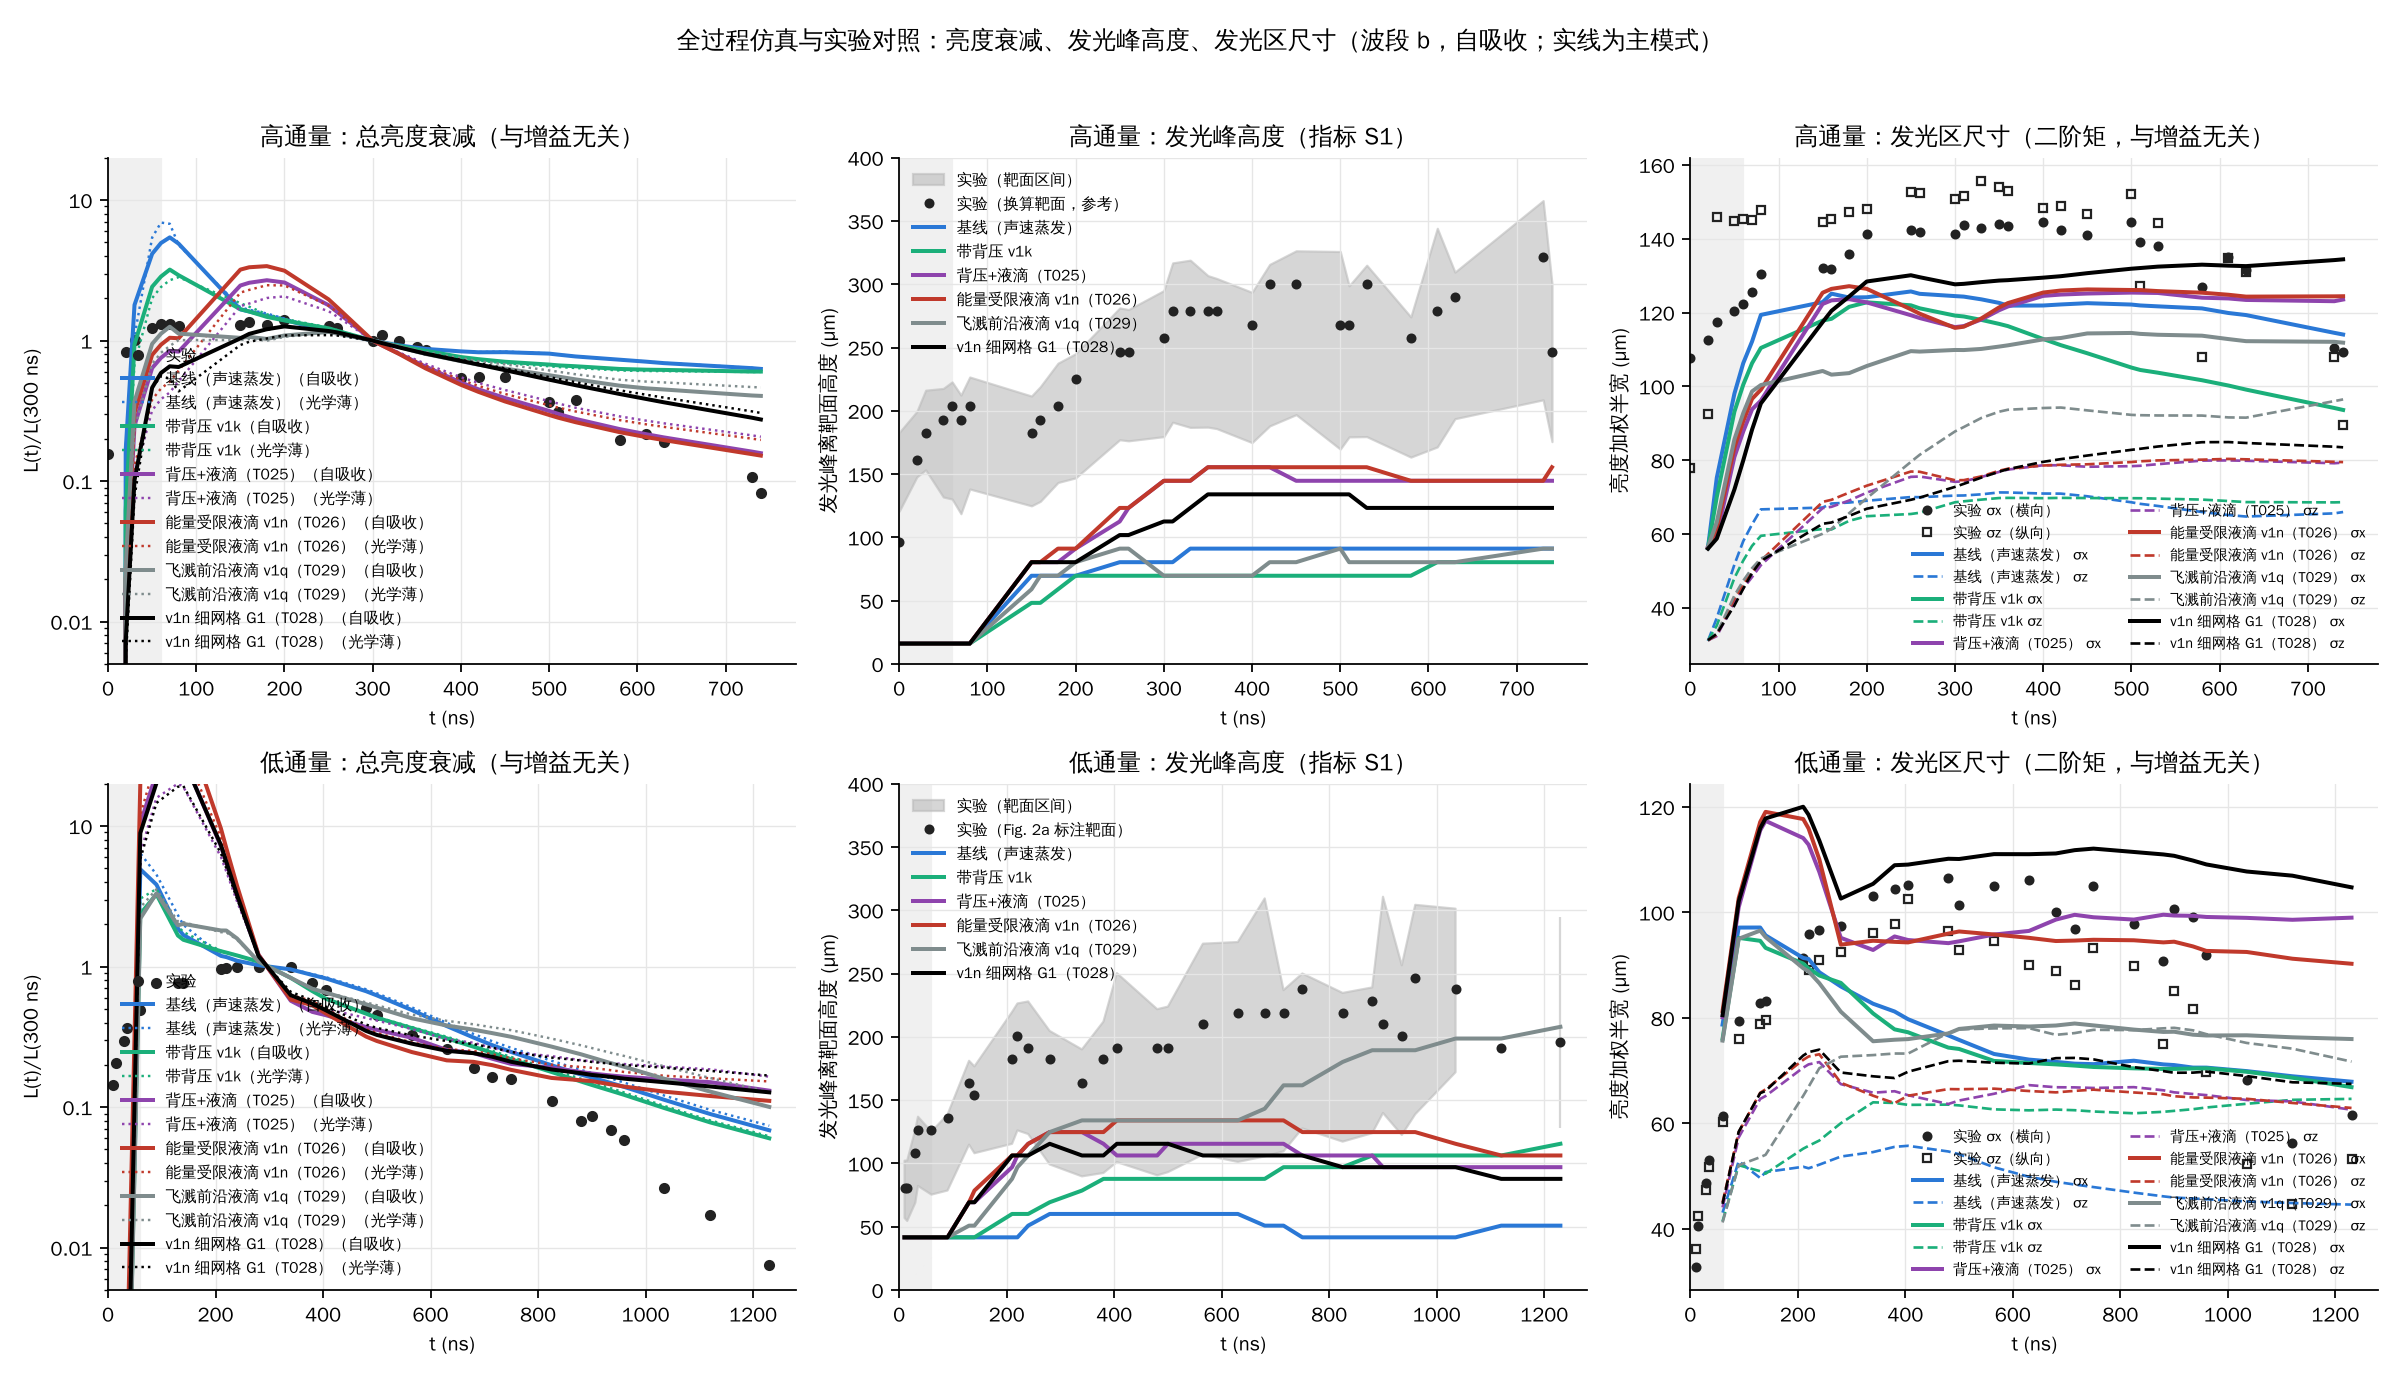
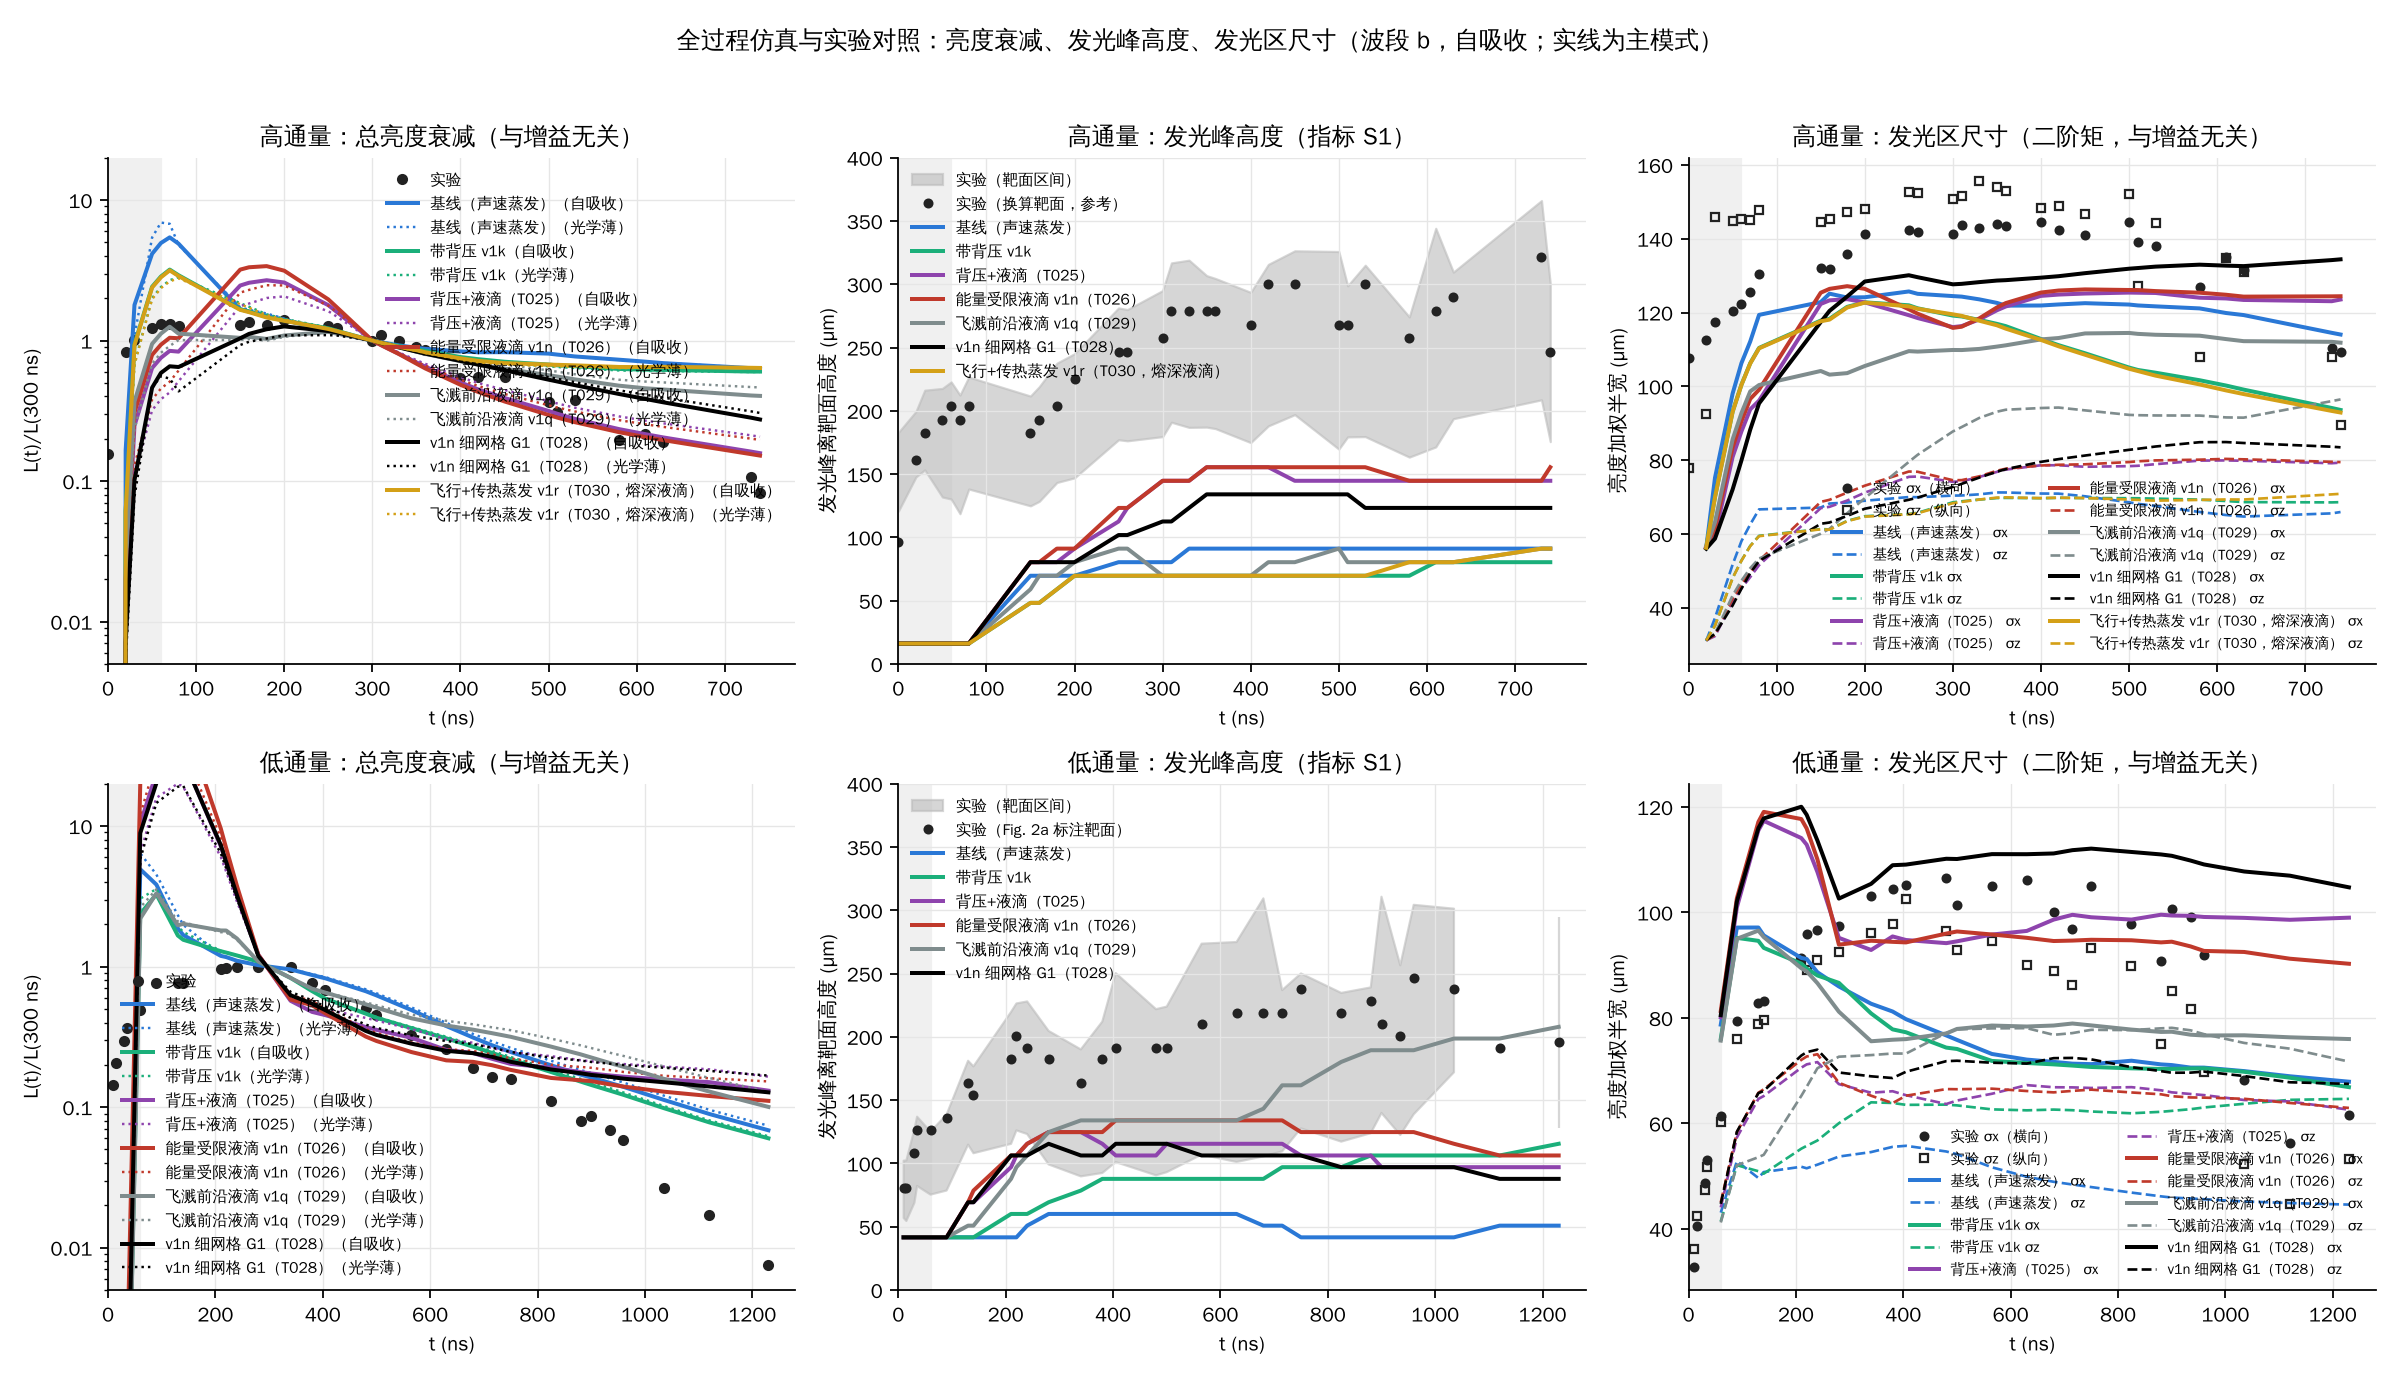
T030 high RP imaging reading; figures with v1r row
Claude-Session: https://claude.ai/code/session_01FS7WDGPKzwdDyXZyPwrs24

diff --git a/docs/STATE.md b/docs/STATE.md
@@ -586,3 +586,7 @@ Updated: 2026-11-15
 - Production: high_a30n evaporated 2.26 of 6.29 ng; low_a100n 0.65 of 5.19 ng. Imaging pending. RP imaging first.
 - 14:05 high_a100n production: evaporated 1.21 of 6.29 ng (19%) by 800 ns; residual 0.032%. Scan evaporated fraction at 800 ns (high): 10 nm 56%, 30 nm 36%, 100 nm 19%, melt-depth 4.5 µm 0.37%.
 - 14:37 T030 low_rp production done (1300 ns, rc 0): evaporated 0.020 ng of 5.19 ng (0.4%), airborne 5.17 ng. Energy residual 0.57% — larger than v1n (0.004%) and the other T030 members (≤ 0.13%); within the 1% acceptance but recorded. All 8 T030 productions done. T031 claimed and built (15 tests pass).
+
+### 2026-11-25 15:05 — T030 high_rp (v1r, reported member) imaging
+- high_rp it2: L500/L300 0.747, L730/L300 0.709; σz/σx 0.57; S1 70 µm, 0/20. Practically identical to T023 v1k (no droplets: 0.746 / 0.667 / 0.58), as PREREG v1r (b) predicted. T026 v1n: 0.302 / 0.156 / 0.64.
+- v1r summary (high): with physically sized droplets (melt depth) the droplet sink vanishes and the plume reverts to the no-droplet case. The v1n decay needs ≲ 30 nm ejecta, which neither the model nor the paper establishes. Figures redrawn with the v1r row.
